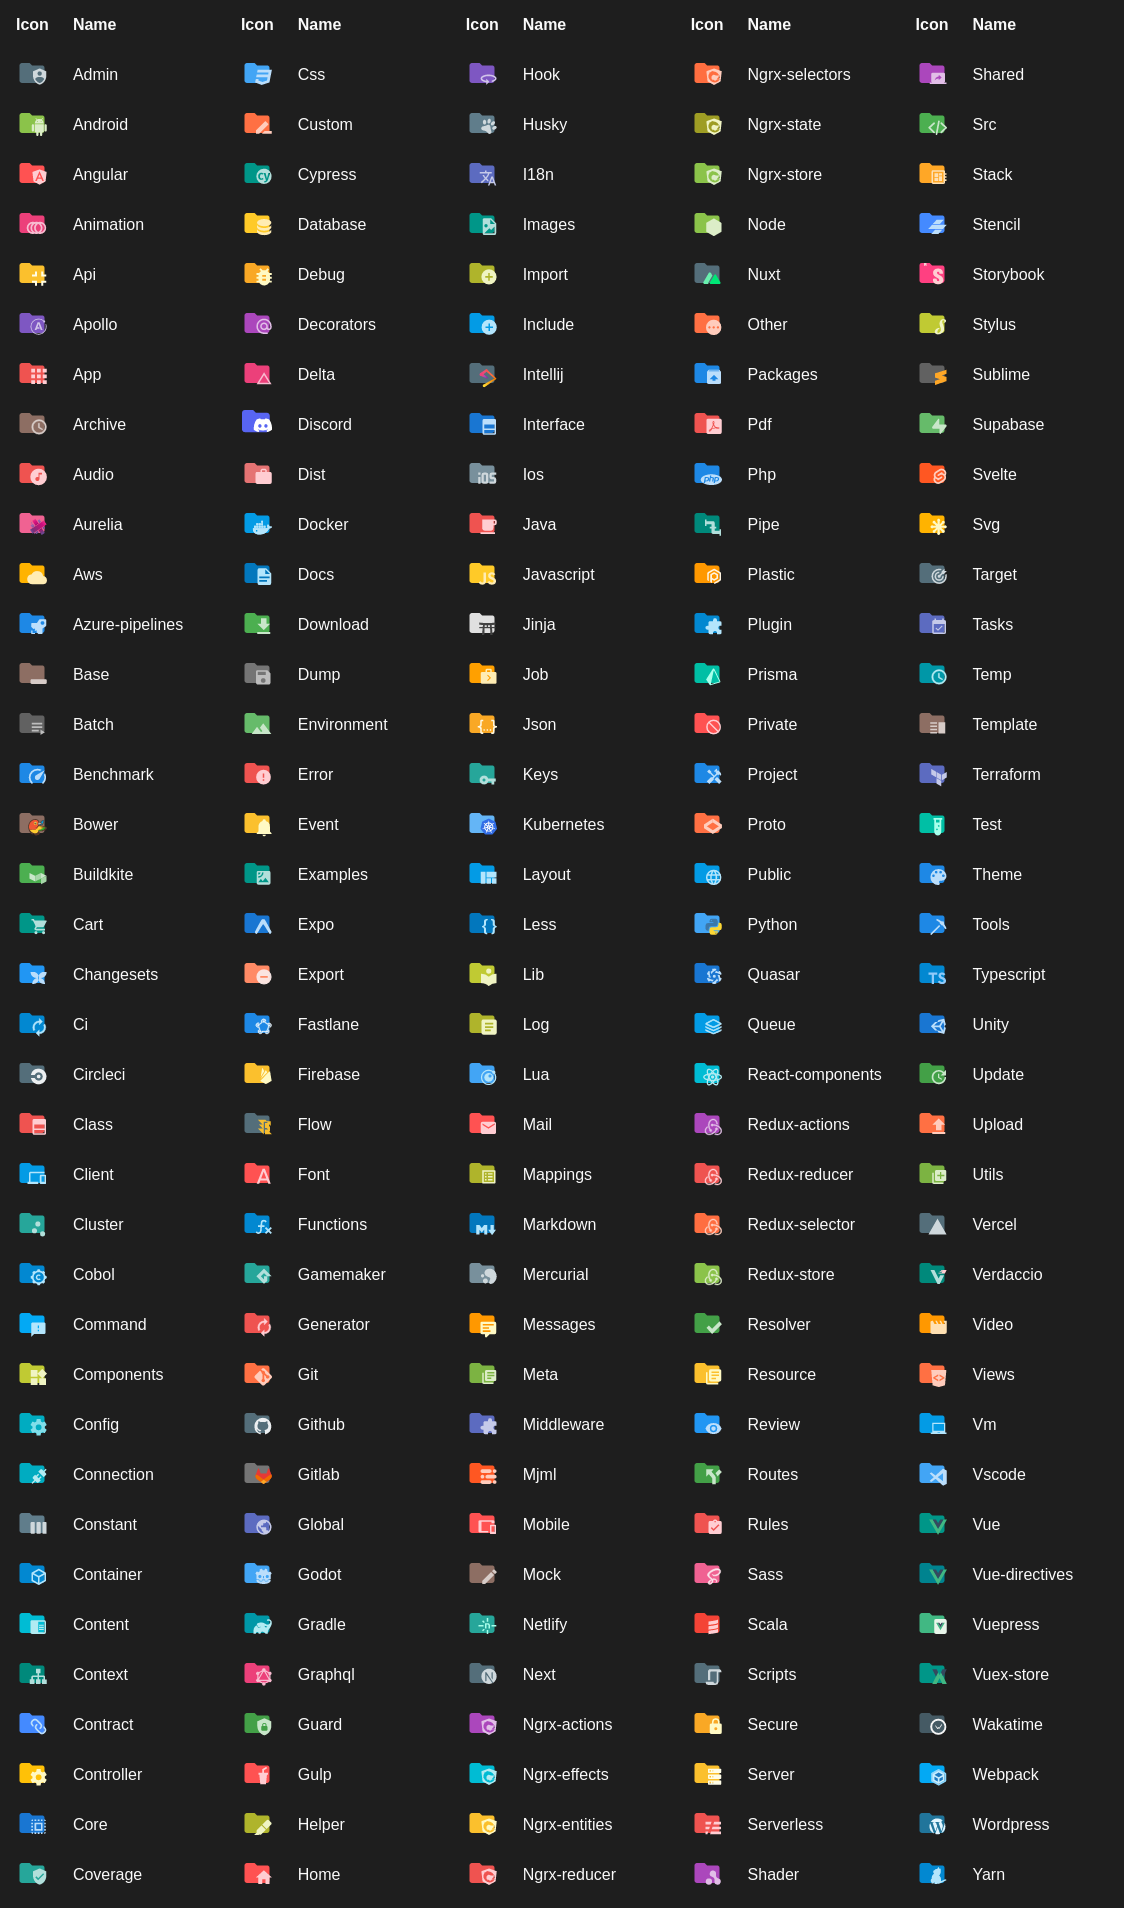
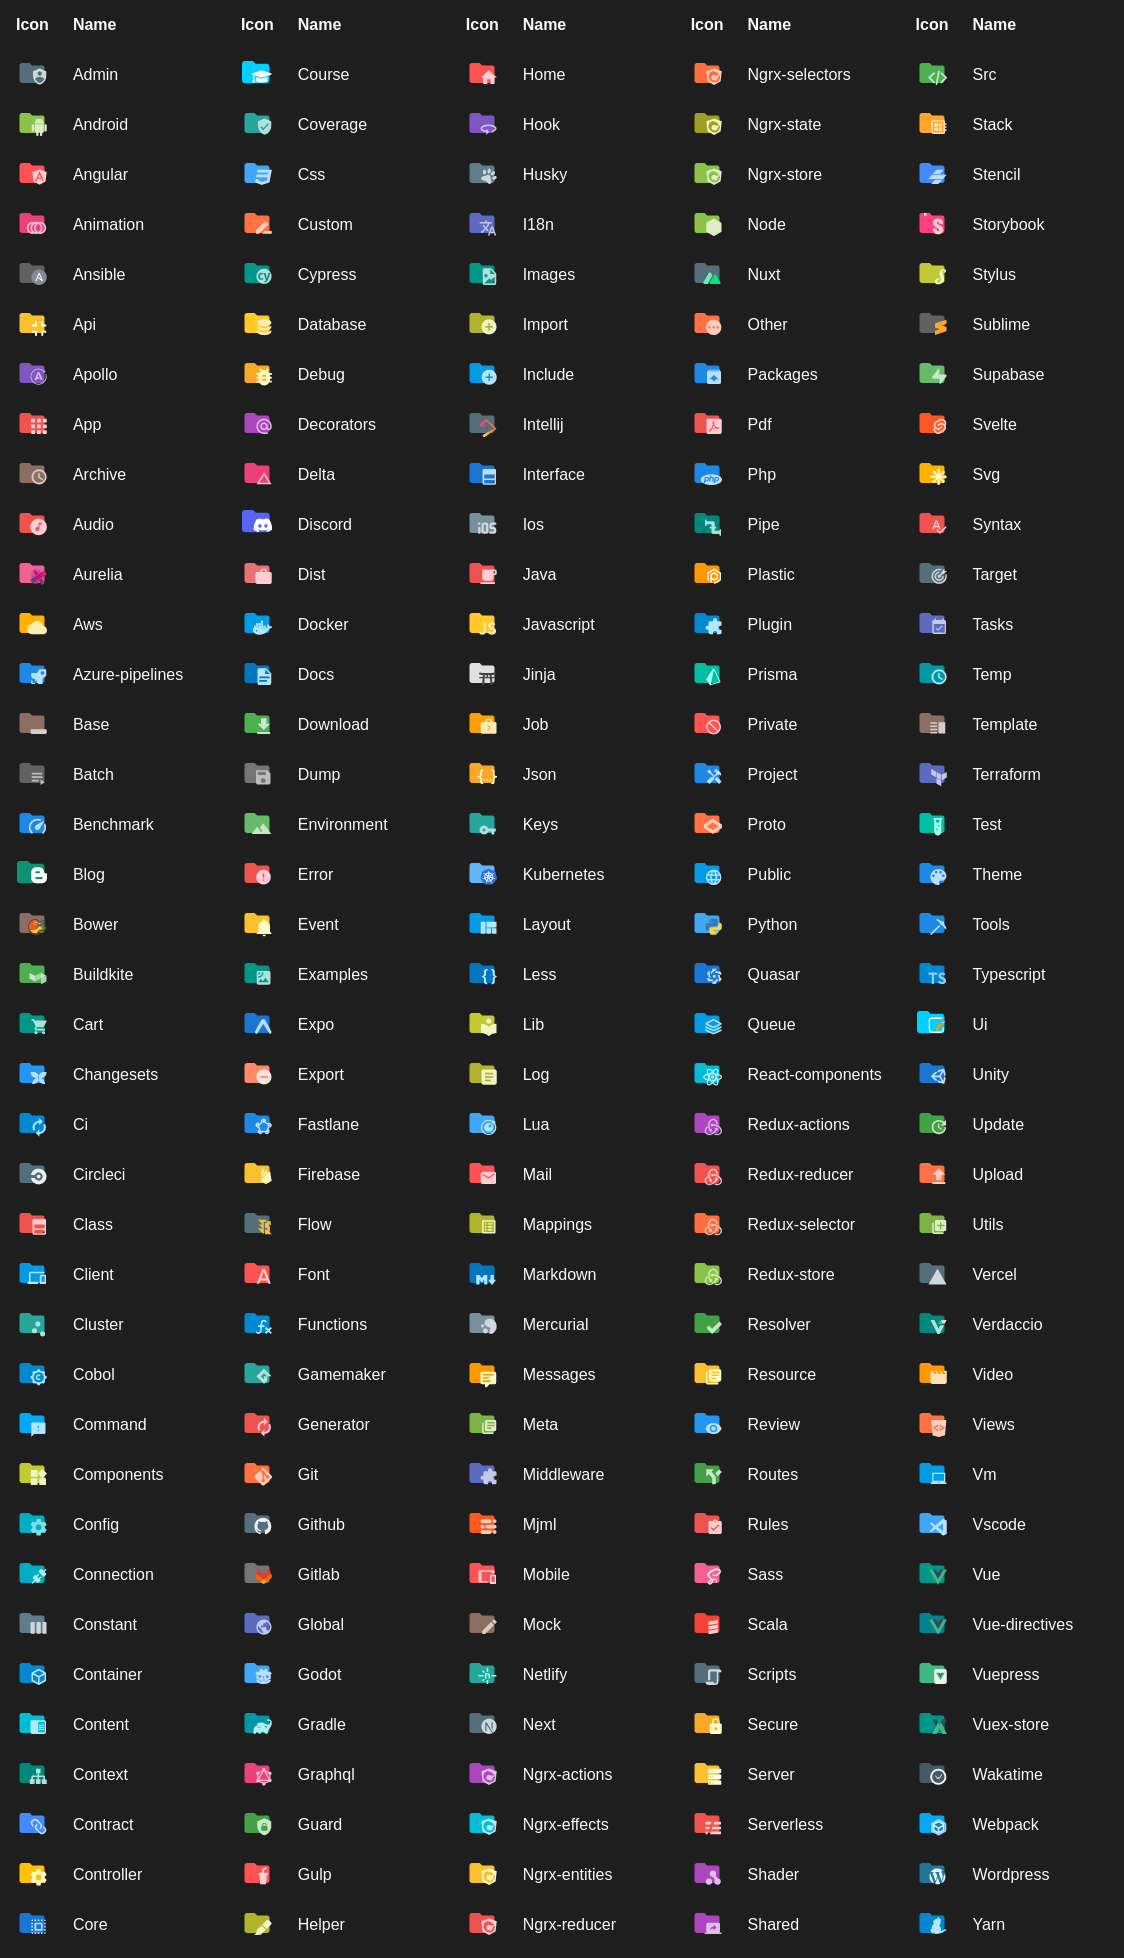
Release 0.0.3

diff --git a/CHANGELOG.md b/CHANGELOG.md
@@ -1,6 +1,29 @@
 # Changelog
 
 
+## v0.0.2...main
+
+[compare changes](https://github.com/nyxblabs/materialiconic/compare/v0.0.2...main)
+
+
+### 🚀 Enhancements
+
+  - **icons:** Add new folder icons for different categories Four new SVG icons have been added to the icons folder. Two of them represent closed folders, while the other two represent open folders. The folders are categorized into blog, course, and UI. The icons have been designed to be consistent with the existing icons in the folder. ([b995db3](https://github.com/nyxblabs/materialiconic/commit/b995db3))
+
+### 🏡 Chore
+
+  - **logo.png:** Update logo image The logo.png file has been updated, but no changes to the code have been made. This commit only updates the image file. ([ec28b7e](https://github.com/nyxblabs/materialiconic/commit/ec28b7e))
+  - **logo.svg:** Update logo image The logo.svg file has been updated, but no changes to the code have been made. This commit only updates the image file. ([b39ed41](https://github.com/nyxblabs/materialiconic/commit/b39ed41))
+
+### 🎨 Styles
+
+  - **icons:** Change folder open icon fill color from #0d9373 to #00cfff The fill color of the folder open icon has been changed from #0d9373 to #00cfff to improve consistency with the color scheme of the application. ([#0](https://github.com/nyxblabs/materialiconic/issues/0), [#00](https://github.com/nyxblabs/materialiconic/issues/00))
+  - **README.md:** Add badges for Visual Studio Code marketplace statistics This commit adds badges for Visual Studio Code marketplace statistics, including version, installs, ratings, and downloads. This provides users with more information about the extension's popularity and usage. ([d007890](https://github.com/nyxblabs/materialiconic/commit/d007890))
+
+### ❤  Contributors
+
+- Nyxb <contact@nyxb.xyz>
+
 ## ...main
 
 
